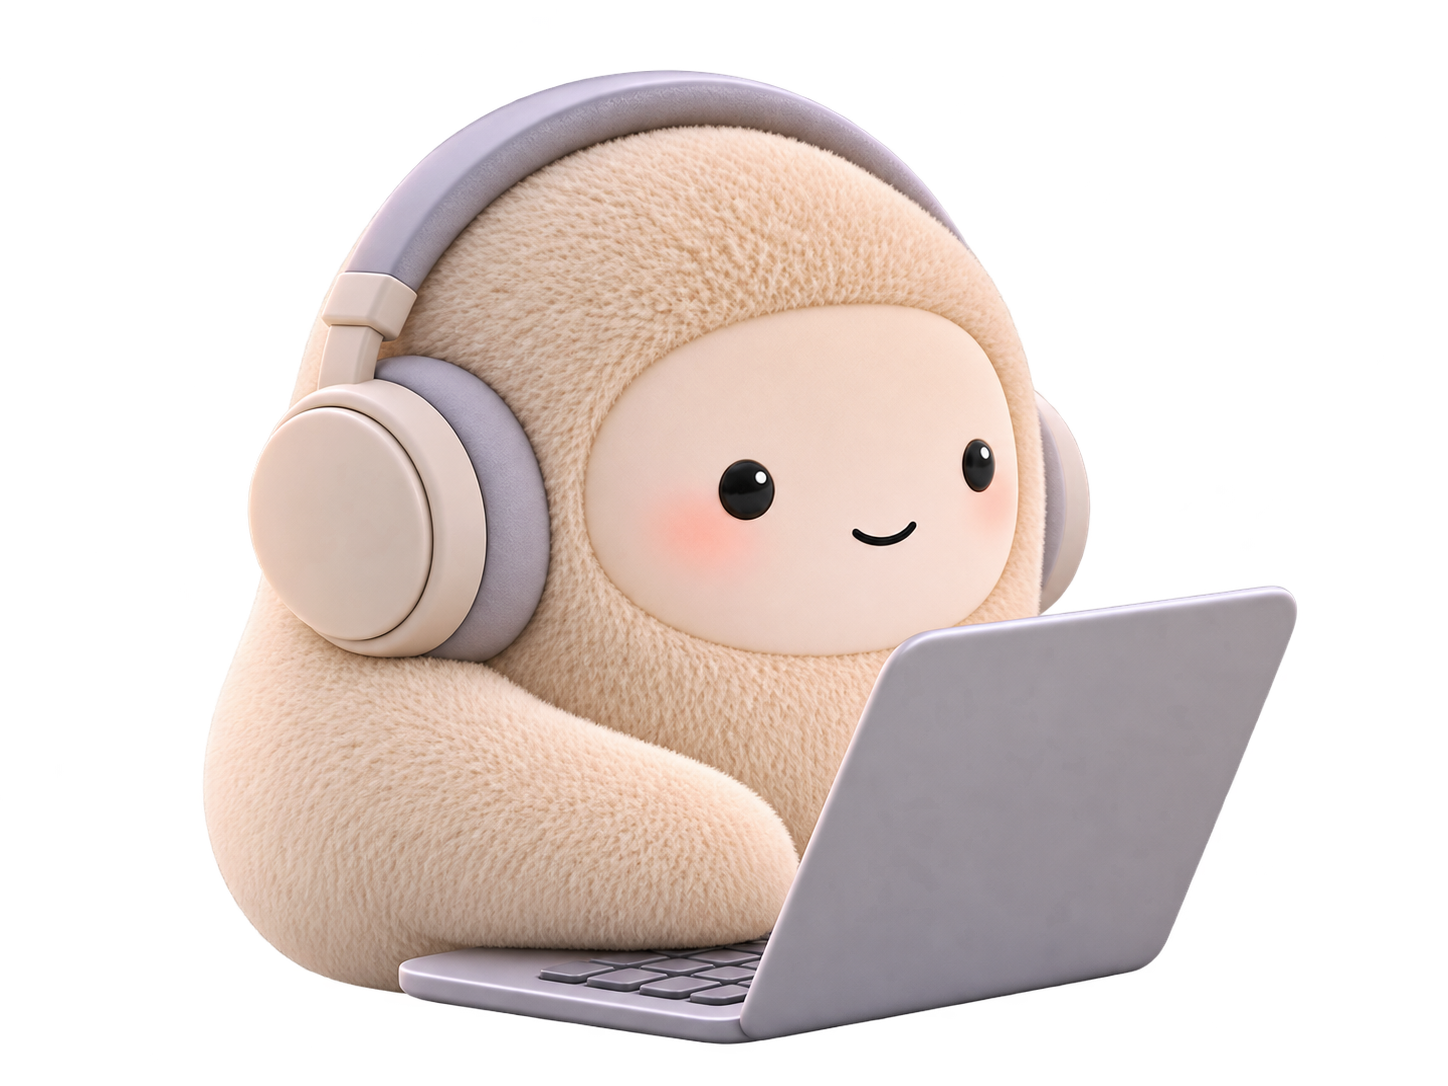
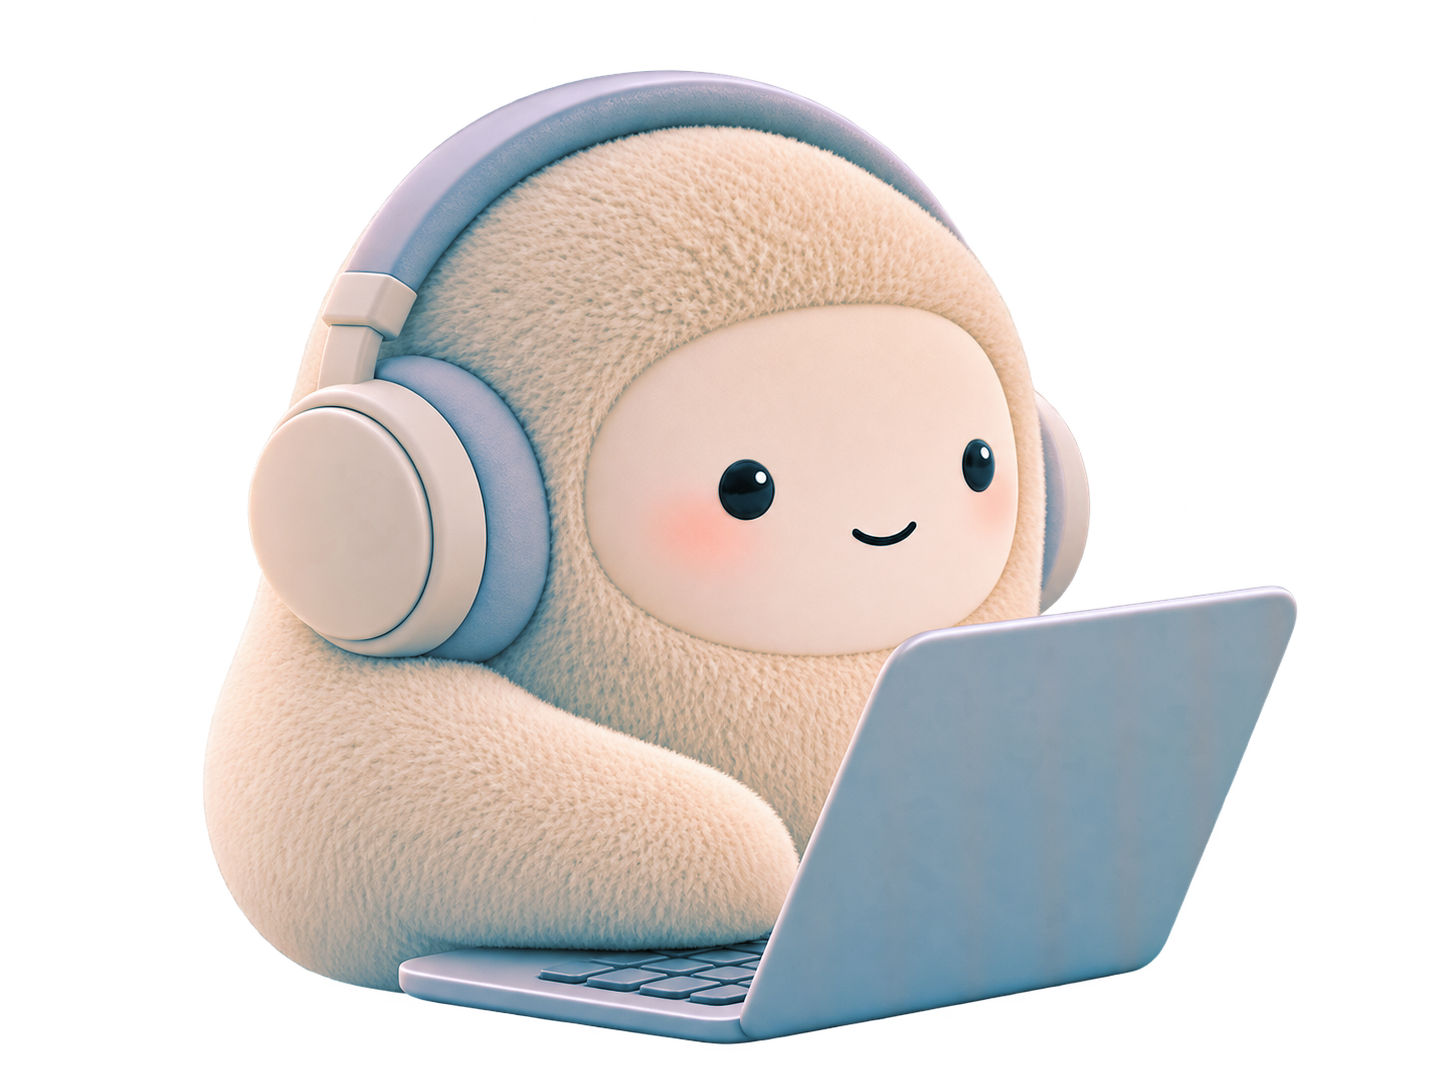
assets(navigation): refresh edited product images

diff --git a/docs/changes/2026-11-18-navigation-product-visuals-refresh.md b/docs/changes/2026-11-18-navigation-product-visuals-refresh.md
@@ -1,0 +1,20 @@
+# Navigation product visual refresh (2026-11-18)
+
+Scope: Four original Photoshop-edited product images replacing existing files in `public/ryze-media/product-shelf/`, without renaming or touching component code.
+
+| Asset | Format | Dimensions | Used in navigation as |
+| --- | --- | --- | --- |
+| `muse.webp` | WebP RGBA | 1448 x 1086 | AI Marketer |
+| `mcp.webp` | WebP RGB | 1086 x 1448 | MCP |
+| `mascot.png` | PNG RGBA | 1448 x 1086 | Muse |
+| `seo.webp` | WebP RGB | 1448 x 1086 | SEO |
+
+Consumers: `src/features/site-shell/link-model.ts` -> `SiteHeader.tsx` -> desktop mega-menu and mobile product shelf; `HeroWithNavigation.stories.tsx` / `SiteHeader.stories.tsx` share those components. `src/features/hero/HeroConversation.tsx` also directly references three of the same paths. All consumers pick up these four replacements automatically without changing imports or layout.
+
+Source-library copy was synchronized: `RYZE-MEDIA/mockups/challenge-assets/product-shelf/` (outside this repository). SHA-256 matches verified for each file.
+
+Other in-progress source/Storybook/CSS modifications were intentionally left untouched. No public deployment was performed.
+
+Verification (Titan, 2026-11-18): Pillow decode/format/dimensions passed for all four files; local 
+pm run build and 
+pm run typecheck both exit 0.
